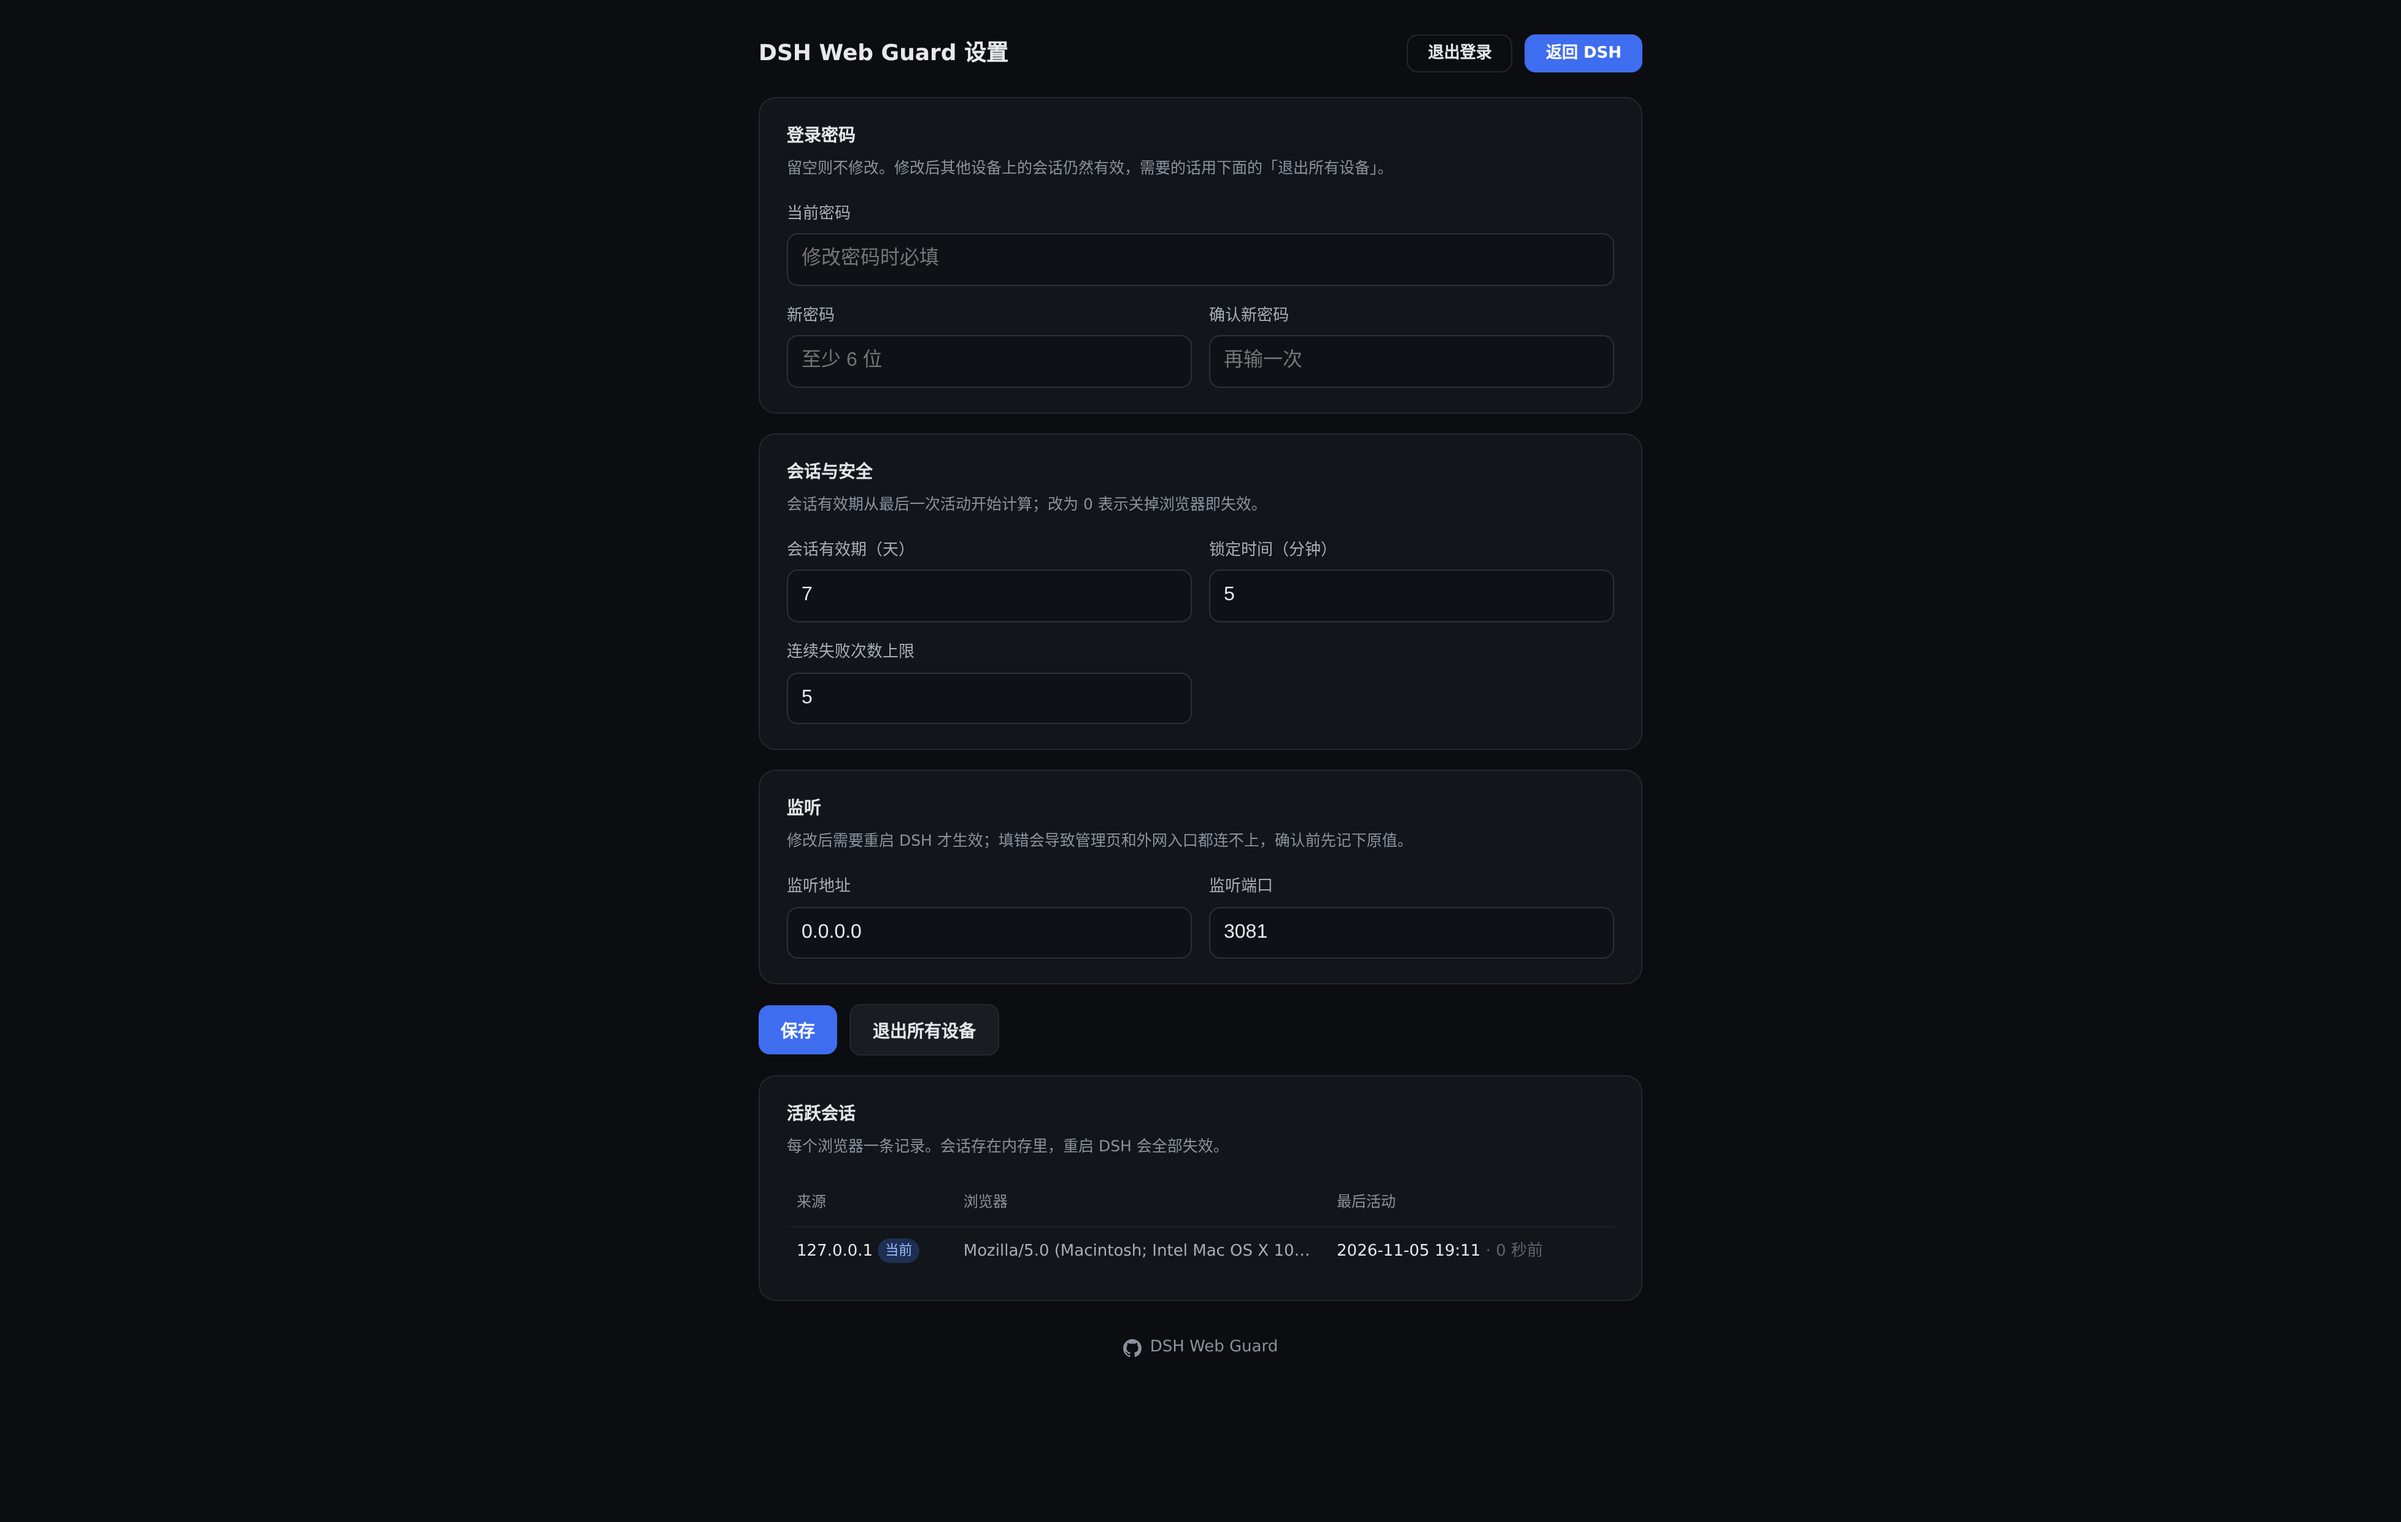
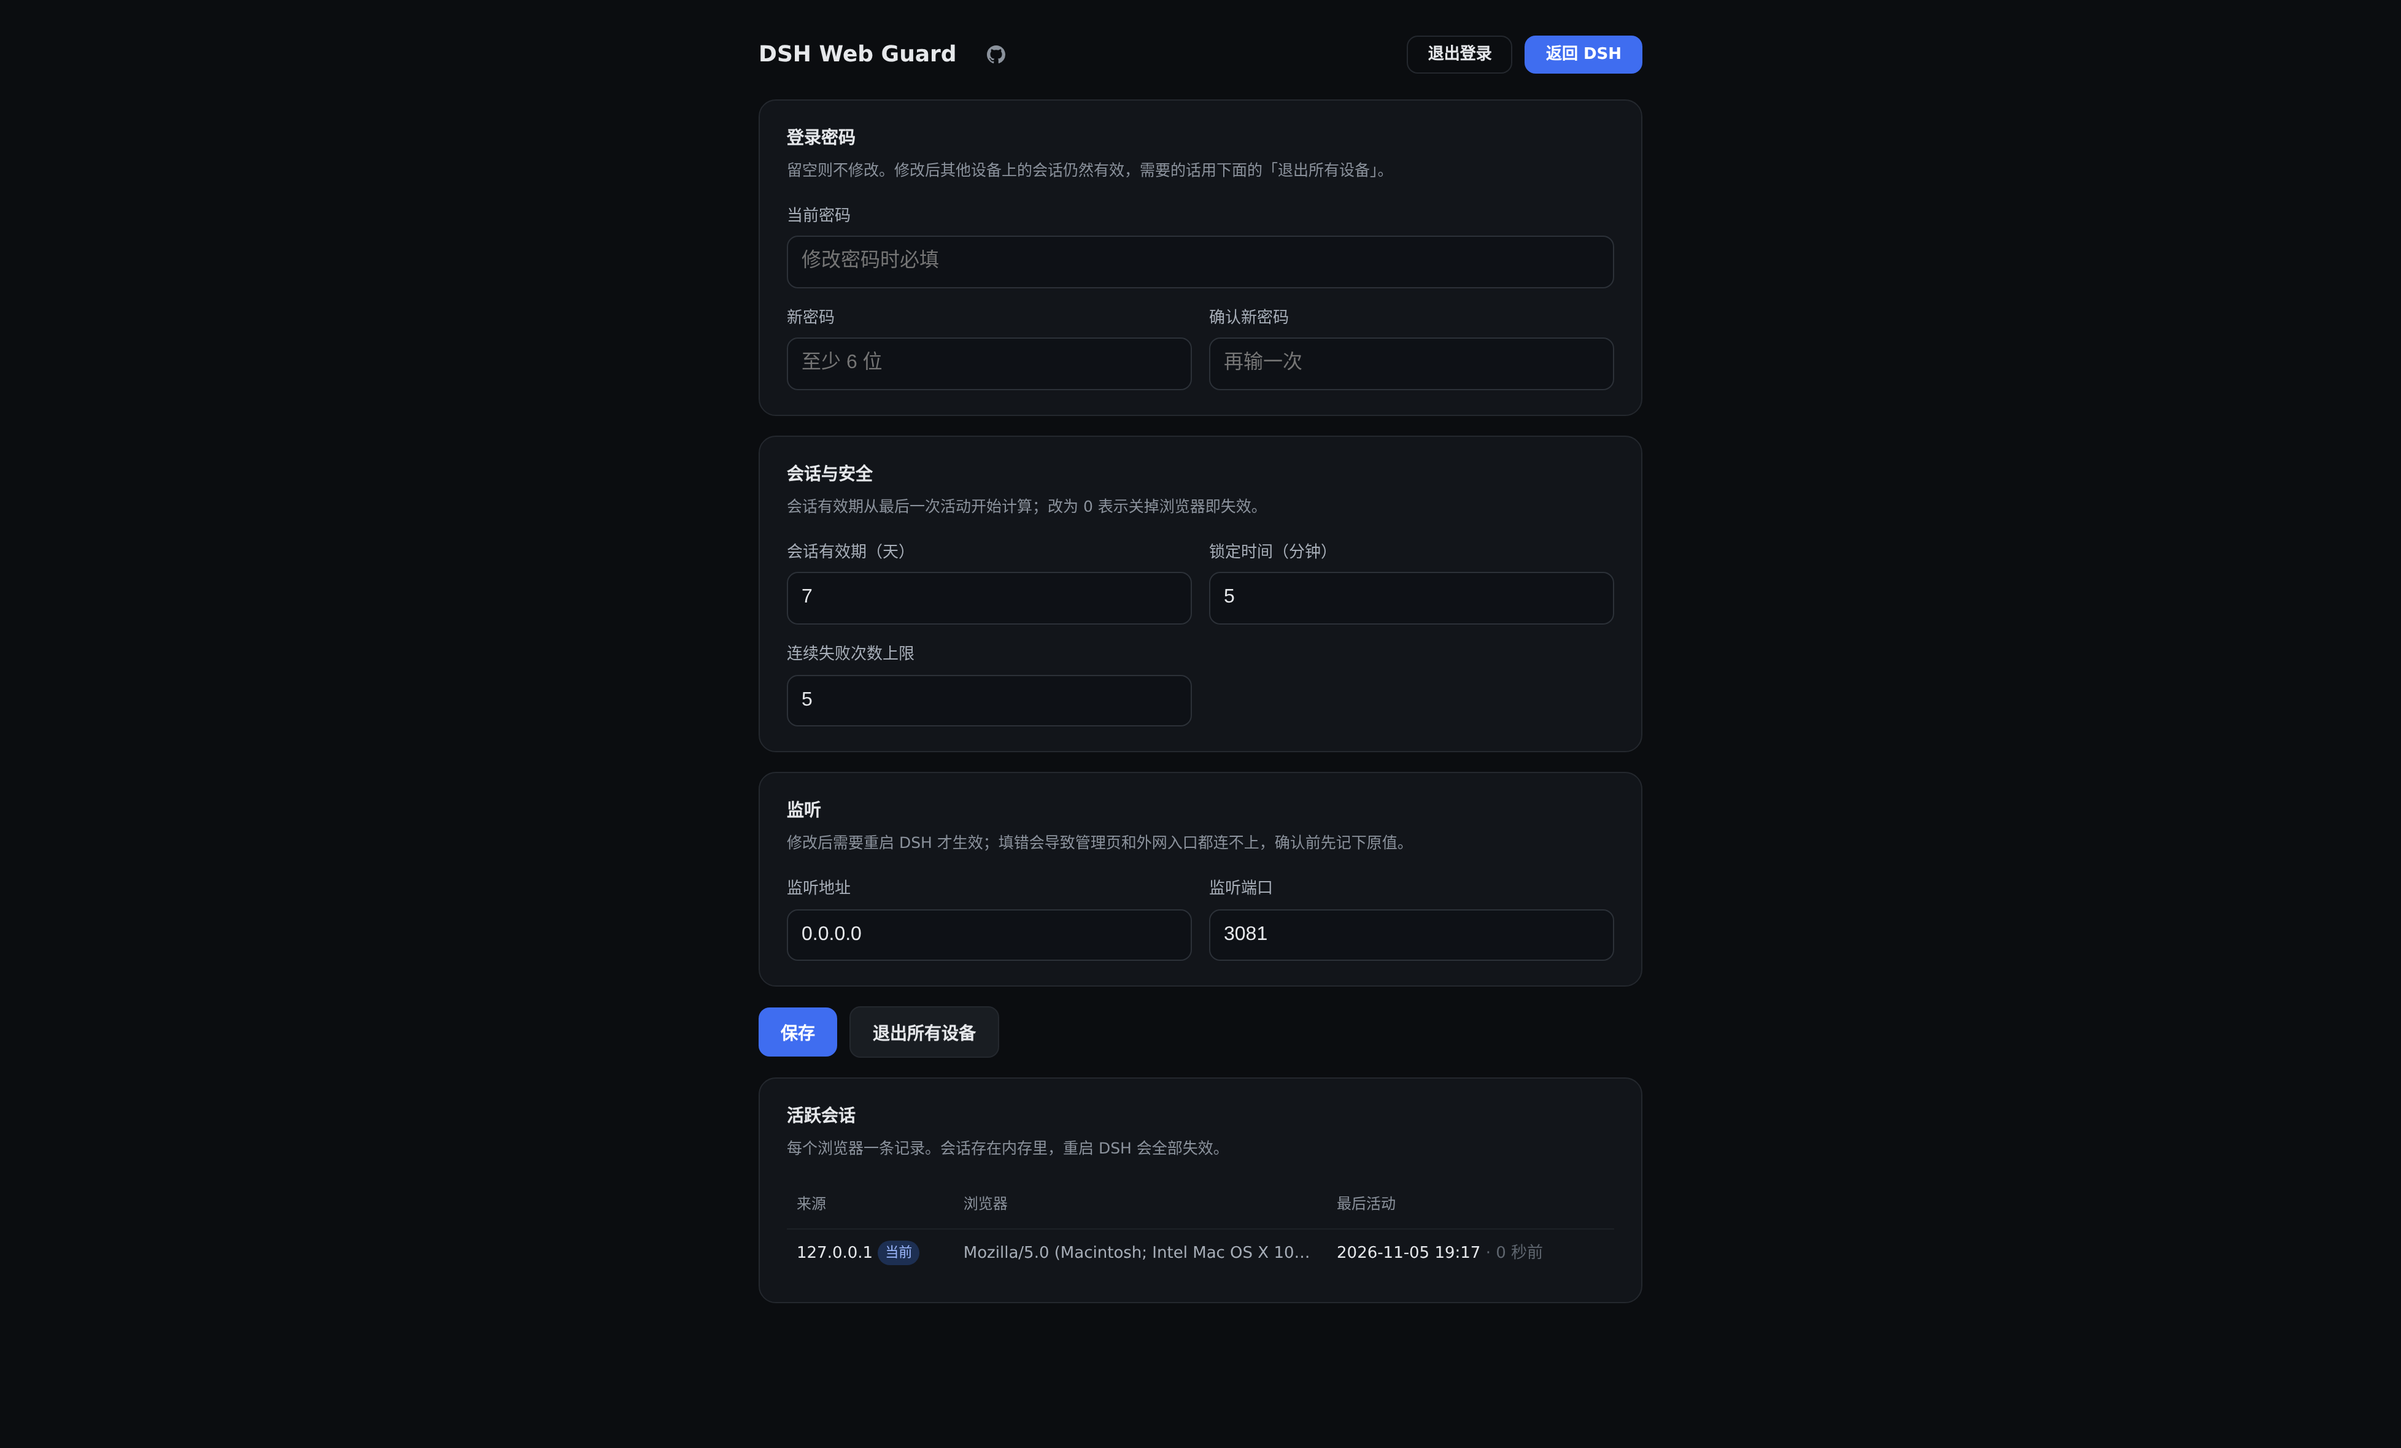
style: move the repo link up to the title, drop the footer
The GitHub link now sits as an icon next to the page title instead of a
footer row, and the title is just 'DSH Web Guard' (no 'settings' suffix).
Footer CSS removed with it; a little bottom padding keeps the page from
looking cut off. Screenshots re-shot in both languages.

diff --git a/lib/admin.js b/lib/admin.js
@@ -55,9 +55,11 @@ export function adminPage({ settings, sessions = [], notice = '', error = '', re
   body{margin:0;min-height:100vh;min-height:100dvh;background:var(--bg);color:var(--text);
        font:15px/1.65 system-ui,-apple-system,"Segoe UI",Roboto,"PingFang SC","Microsoft YaHei",sans-serif;
        -webkit-text-size-adjust:100%;padding:28px 18px max(28px,env(safe-area-inset-bottom))}
-  .wrap{width:min(100%,720px);margin:0 auto}
+  .wrap{width:min(100%,720px);margin:0 auto;padding-bottom:28px}
   header{display:flex;align-items:center;justify-content:space-between;gap:12px;margin-bottom:20px;flex-wrap:wrap}
-  h1{margin:0;font-size:18px;font-weight:600}
+  h1{margin:0;font-size:18px;font-weight:600;display:flex;align-items:center;gap:8px}
+  h1 .repo{display:inline-flex;color:var(--muted);text-decoration:none;transition:color .15s}
+  h1 .repo:hover{color:var(--text)}
   header .links{display:flex;gap:10px;align-items:center;font-size:13px}
   header a{display:inline-flex;align-items:center;padding:8px 16px;border-radius:9px;font-size:13px;
     font-weight:600;text-decoration:none;line-height:1;border:1px solid transparent;transition:.15s}
@@ -99,10 +101,6 @@ export function adminPage({ settings, sessions = [], notice = '', error = '', re
   .banner.ok{background:#12271a;color:#8fdca8;border:1px solid #1e4030}
   .banner.bad{background:#2a1616;color:#ffb4ae;border:1px solid #4a2222}
   .banner.warn{background:#2a2312;color:#e8cf94;border:1px solid #4a3d1e}
-  footer{margin:22px 0 0;display:flex;justify-content:center}
-  footer a{display:inline-flex;align-items:center;gap:7px;color:var(--muted);font-size:13px;text-decoration:none;
-           padding:5px 10px;border-radius:8px}
-  footer a:hover{color:var(--text);background:#191d22}
   body.embedded{background:transparent}
   body.embedded .wrap{width:100%;max-width:none;margin:0;padding:0 4px}
   body.embedded h1{font-size:15px}
@@ -115,7 +113,7 @@ export function adminPage({ settings, sessions = [], notice = '', error = '', re
 </head><body>
 <div class="wrap">
   <header>
-    <h1>${esc(L.adminTitle)}</h1>
+    <h1>${esc(L.adminTitle)}<a class="repo" href="${esc(s.repo || 'https://github.com/lvxianchao/dsh-web-guard')}" target="_blank" rel="noopener noreferrer" title="GitHub" aria-label="GitHub">${GITHUB_ICON}</a></h1>
     <div class="links">
       <a href="/logout" class="ghost">${esc(L.signOut)}</a>
       <a href="/" id="g-back" class="primary">${esc(L.backToDsh)}</a>
@@ -182,11 +180,6 @@ export function adminPage({ settings, sessions = [], notice = '', error = '', re
 
   <form id="kill" method="post" action="/__guard/kill"></form>
 
-  <footer>
-    <a href="${esc(s.repo || 'https://github.com/lvxianchao/dsh-web-guard')}" target="_blank" rel="noopener noreferrer">
-      ${GITHUB_ICON}<span>DSH Web Guard</span>
-    </a>
-  </footer>
 </div>
 <script>(function(){if(window.self===window.top)return;document.body.classList.add('embedded');
 var b=document.getElementById('g-back');if(!b)return;b.textContent='${esc(L.close)}';

diff --git a/lib/i18n.js b/lib/i18n.js
@@ -88,8 +88,8 @@ export function ago(ms, locale) {
 
 const ZH = {
   locale: 'zh',
-  adminTitle: 'DSH Web Guard 设置',
-  pageTitleAdmin: 'DSH Web Guard 设置',
+  adminTitle: 'DSH Web Guard',
+  pageTitleAdmin: 'DSH Web Guard',
   backToDsh: '返回 DSH',
   close: '关闭',
   signOut: '退出登录',
@@ -143,8 +143,8 @@ const ZH = {
 
 const EN = {
   locale: 'en',
-  adminTitle: 'DSH Web Guard Settings',
-  pageTitleAdmin: 'DSH Web Guard Settings',
+  adminTitle: 'DSH Web Guard',
+  pageTitleAdmin: 'DSH Web Guard',
   backToDsh: 'Back to DSH',
   close: 'Close',
   signOut: 'Sign out',
